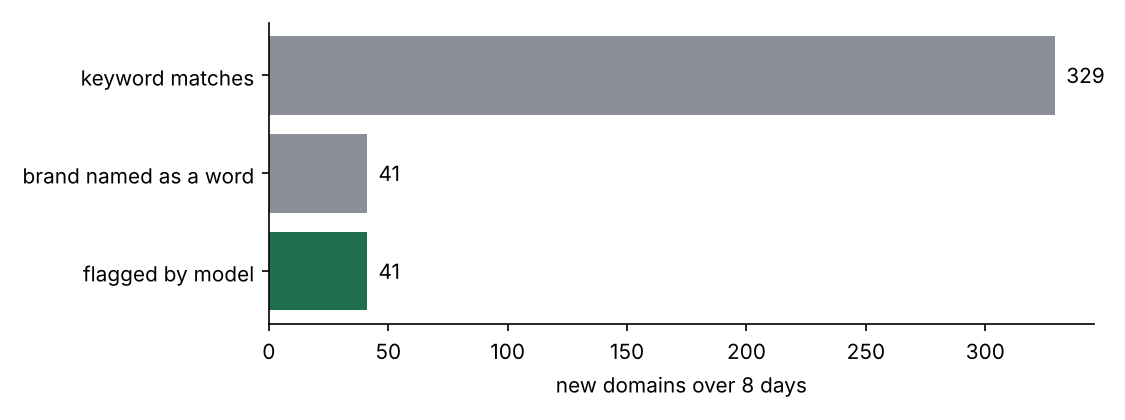
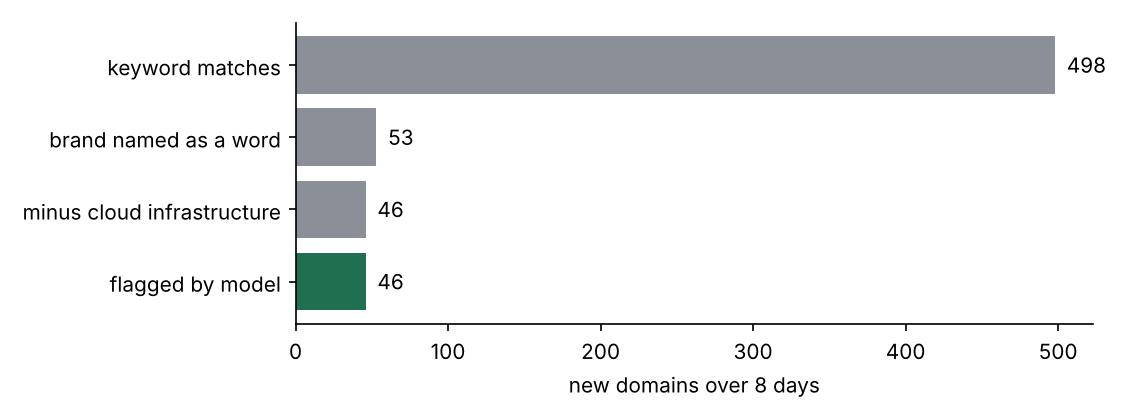
Delivery Scam Watch: suppress cloud-infrastructure names, honest model note, refreshed numbers
- stream funnel gains a cloud-infrastructure step (AWS internal and Snowflake host names from CT logs)
- report records the model threshold and that the rule, not the model, does the cutting
- review file covers the 12 names flagged in the latest run
- dashboard and README refreshed: 498 keyword names -> 46 in the queue, 35 likely scams, none blocklisted

Claude-Session: https://claude.ai/code/session_01QuzrZR1wy5UsD1Csxi9u8s

diff --git a/dashboard/index.html b/dashboard/index.html
@@ -163,7 +163,8 @@ footer { color: var(--muted); font-size: 13px; border-top: 1px solid var(--line)
     <ul class="flat">
       <li><b>In the lab:</b> PR-AUC <span id="lab"></span> with folds grouped by registered domain. This is optimistic: the legitimate examples are popular websites, which are easy to tell from scams.</li>
       <li><b>On a brand it never saw:</b> trained on three brands and tested on the fourth, PR-AUC ranges from <span id="lobo"></span>. UPS is hardest, because "ups" also appears in many innocent names.</li>
-      <li><b>On the live stream:</b> a name-only review of everything flagged found <span id="rev"></span>. On live data the brand-as-a-word rule does most of the work: there are still too few legitimate domains that mention a brand to teach the model the hard cases.</li>
+      <li><b>On the live stream:</b> a name-only review of everything flagged found <span id="rev"></span>. Honest reading: the model's cut-off, set for 95% precision on lab data, keeps every name the rule passes, so the rule and a cloud-infrastructure filter do the cutting and the model score only orders the queue. Lab negatives are popular websites, too easy to teach it the hard cases; reviewed stream names are the training data it needs next.</li>
+      <li><b>Noise found and fixed:</b> certificate logs also carry company-internal cloud host names (AWS test hosts, Snowflake endpoints) whose random strings start with "dhl". <span id="infra"></span> such names are now filtered out and counted separately.</li>
     </ul>
   </section>
 
@@ -193,7 +194,7 @@ python -m scamwatch report          # recompute every number on this page</pre>
 </div>
 
 <script>
-const D = {"generated":"2026-11-01T19:25:59+00:00","labelled":{"keyword_scope":{"scam":2230,"legitimate":635},"brand_scope":{"scam":2230,"legitimate":66},"scam_by_brand":{"USPS":1633,"DHL":479,"FedEx":63,"UPS":55}},"stream":{"days_covered":8,"keyword_domains":329,"after_stage1_rule":41,"after_stage2_model":41,"review_counts":{"likely_scam":35,"unsure":4,"legitimate":2},"analyst_hours_per_month":{"review_every_keyword_domain":102.8,"review_after_rule_and_model":12.8,"assumption_minutes_per_review":5},"likely_scams_not_on_any_blocklist":35},"rows":[{"d":"imports-dhl[.]com","b":"DHL","r":"likely_scam","t":"2026-10-30","s":1.0},{"d":"ba56z-nokku-tmfdhl[.]cyou","b":"DHL","r":"unsure","t":"2026-10-28","s":1.0},{"d":"fedex-vipdsf[.]shop","b":"FedEx","r":"likely_scam","t":"2026-10-28","s":1.0},{"d":"dhl-tracking[.]live","b":"DHL","r":"likely_scam","t":"2026-10-26","s":1.0},{"d":"dhlentrega[.]eu[.]cc","b":"DHL","r":"likely_scam","t":"2026-10-26","s":1.0},{"d":"dhlabelprint[.]com","b":"DHL","r":"unsure","t":"2026-10-30","s":1.0},{"d":"fedex-vipbvrfb[.]shop","b":"FedEx","r":"likely_scam","t":"2026-10-29","s":0.999},{"d":"fedex-vipvujg[.]shop","b":"FedEx","r":"likely_scam","t":"2026-10-26","s":0.999},{"d":"dhl-logisticservices[.]live","b":"DHL","r":"likely_scam","t":"2026-10-26","s":0.999},{"d":"fedex-vipmvbf[.]shop","b":"FedEx","r":"likely_scam","t":"2026-10-26","s":0.999},{"d":"dhleregamx[.]top","b":"DHL","r":"likely_scam","t":"2026-10-25","s":0.999},{"d":"fedex-vipbtb[.]shop","b":"FedEx","r":"likely_scam","t":"2026-10-28","s":0.998},{"d":"dhlpyljh[.]eu[.]cc","b":"DHL","r":"likely_scam","t":"2026-10-30","s":0.998},{"d":"dhlyclz[.]cc","b":"DHL","r":"likely_scam","t":"2026-10-31","s":0.996},{"d":"dhlaolunsideqizi2[.]baby","b":"DHL","r":"unsure","t":"2026-10-28","s":0.996},{"d":"nabt-jadhl[.]com","b":"DHL","r":"unsure","t":"2026-10-31","s":0.993},{"d":"0dhl[.]rest","b":"DHL","r":"likely_scam","t":"2026-10-28","s":0.988},{"d":"dhlzjw661[.]cfd","b":"DHL","r":"likely_scam","t":"2026-10-30","s":0.981},{"d":"fedexrb[.]com","b":"FedEx","r":"likely_scam","t":"2026-10-25","s":0.979},{"d":"fedexrz[.]com","b":"FedEx","r":"likely_scam","t":"2026-10-25","s":0.979},{"d":"thecountypop-ups[.]shop","b":"UPS","r":"legitimate","t":"2026-10-25","s":0.976},{"d":"dhllycl[.]cc","b":"DHL","r":"likely_scam","t":"2026-10-31","s":0.975},{"d":"dhlycly[.]cc","b":"DHL","r":"likely_scam","t":"2026-10-31","s":0.975},{"d":"eservice-dhl[.]com","b":"DHL","r":"likely_scam","t":"2026-10-26","s":0.974},{"d":"fedexi[.]eu[.]cc","b":"FedEx","r":"likely_scam","t":"2026-10-25","s":0.952},{"d":"dhltotog[.]com","b":"DHL","r":"likely_scam","t":"2026-10-31","s":0.95},{"d":"fedexqwq[.]com","b":"FedEx","r":"likely_scam","t":"2026-10-26","s":0.95},{"d":"fedexkfj[.]com","b":"FedEx","r":"likely_scam","t":"2026-10-31","s":0.95},{"d":"pcldhl[.]cc","b":"DHL","r":"likely_scam","t":"2026-10-25","s":0.926},{"d":"kcldhl[.]cc","b":"DHL","r":"likely_scam","t":"2026-10-25","s":0.926},{"d":"wcldhl[.]cc","b":"DHL","r":"likely_scam","t":"2026-10-25","s":0.926},{"d":"dhlsgamx[.]help","b":"DHL","r":"likely_scam","t":"2026-10-31","s":0.923},{"d":"dhlmx[.]lat","b":"DHL","r":"likely_scam","t":"2026-10-25","s":0.914},{"d":"neoncactusps[.]com","b":"USPS","r":"legitimate","t":"2026-10-31","s":0.896},{"d":"fedexabw[.]com","b":"FedEx","r":"likely_scam","t":"2026-10-29","s":0.86},{"d":"fedextqy[.]com","b":"FedEx","r":"likely_scam","t":"2026-10-31","s":0.807},{"d":"fedexwcp[.]com","b":"FedEx","r":"likely_scam","t":"2026-10-29","s":0.807},{"d":"fedexhlp[.]com","b":"FedEx","r":"likely_scam","t":"2026-10-25","s":0.807},{"d":"fedexhyp[.]com","b":"FedEx","r":"likely_scam","t":"2026-10-25","s":0.807},{"d":"fedexqwm[.]com","b":"FedEx","r":"likely_scam","t":"2026-10-25","s":0.807},{"d":"dhlyico[.]cc","b":"DHL","r":"likely_scam","t":"2026-10-25","s":0.693}],"patterns":{"brand_numbers":{"real_share":0.018,"generator_a_share":0.114},"brand_service":{"real_share":0.022,"generator_a_share":0.296},"brand_subdomain":{"real_share":0.602,"generator_a_share":0.156},"hosting_platform (not in A)":{"real_share":0.059,"generator_a_share":0.0},"lookalike_chars":{"real_share":0.0,"generator_a_share":0.092},"misspelled_brand":{"real_share":0.0,"generator_a_share":0.15},"other (brand only, or not in A)":{"real_share":0.245,"generator_a_share":0.0},"random_with_brand_subdomain":{"real_share":0.047,"generator_a_share":0.051},"service_brand":{"real_share":0.007,"generator_a_share":0.143}},"endings":{"real_top_endings":{"top":0.43,"com":0.136,"xyz":0.12,"cc":0.086,"xin":0.026,"vip":0.02,"dev":0.019,"app":0.016,"shop":0.014,"net":0.01},"share_of_real_scams_with_endings_A_never_uses":0.202},"aucA":0.911,"aucB":0.454,"curve":[{"n":25,"real_only":0.0,"real+A":0.867,"real+B":0.53},{"n":50,"real_only":0.825,"real+A":0.894,"real+B":0.795},{"n":100,"real_only":0.934,"real+A":0.921,"real+B":0.985},{"n":200,"real_only":1.0,"real+A":0.935,"real+B":0.993},{"n":400,"real_only":1.0,"real+A":0.953,"real+B":0.999},{"n":2119,"real_only":1.0,"real+A":0.984,"real+B":1.0}],"detector":{"lab":{"pr_auc":0.997,"recall_at_95_precision":1.0},"lobo":{"DHL":{"n":511,"pr_auc":0.98},"FedEx":{"n":66,"pr_auc":0.998},"UPS":{"n":77,"pr_auc":0.867},"USPS":{"n":1642,"pr_auc":1.0}}},"regs":{"blocklisted_registered_domains":1758,"looked_up":187,"still_registered":38,"already_gone_not_found":149,"age_days_when_seen_listed":{"n":38,"median":171.1,"share_under_7_days":0.053,"share_under_30_days":0.079},"top_registrars_blocklisted":{"Dynadot Inc":8,"Gname.com Pte. Ltd.":4,"NameSilo, LLC":3,"Amazon Registrar, Inc.":2,"NameSilo,LLC":2},"top_registrars_stream":{"Dominet (HK) Limited":18,"GNAME.COM PTE. LTD.":3,"Spaceship, Inc.":3,"Dynadot Inc":2,"PDR Ltd. d/b/a PublicDomainRegistry.com":2}},"sources":{"ctlog":{"runs":84,"seen":16840,"stored":15},"openphish":{"runs":3,"seen":33,"stored":11},"phishingarmy":{"runs":3,"seen":240,"stored":120},"phishingdb":{"runs":3,"seen":8196,"stored":2732},"rdap":{"runs":4,"seen":232,"stored":0},"tranco":{"runs":1,"seen":646,"stored":646},"whoisds":{"runs":2,"seen":742,"stored":314}},"bExamples":["zjqdb[.]vusps[.]xyz","usps[.]com-uknmfy[.]icu","skup85-dhl[.]zbcwb[.]io","03obw[.]susps[.]xyz","dhlrrxpho[.]click"]};
+const D = {"generated": "2026-11-01T21:14:20+00:00", "labelled": {"keyword_scope": {"scam": 2230, "legitimate": 635}, "brand_scope": {"scam": 2230, "legitimate": 66}, "scam_by_brand": {"USPS": 1633, "DHL": 479, "FedEx": 63, "UPS": 55}}, "stream": {"days_covered": 8, "keyword_domains": 498, "after_stage1_rule": 53, "infrastructure_suppressed": 7, "after_infrastructure_filter": 46, "after_stage2_model": 46, "model_threshold": 0.0002, "review_counts": {"likely_scam": 35, "unsure": 8, "legitimate": 3}, "analyst_hours_per_month": {"review_every_keyword_domain": 155.6, "review_after_rule_and_model": 14.4, "assumption_minutes_per_review": 5}, "likely_scams_not_on_any_blocklist": 35}, "rows": [{"d": "imports-dhl[.]com", "b": "DHL", "r": "likely_scam", "t": "2026-10-30", "s": 1.0}, {"d": "dhlabelprint[.]com", "b": "DHL", "r": "unsure", "t": "2026-10-30", "s": 1.0}, {"d": "dhl-tracking[.]live", "b": "DHL", "r": "likely_scam", "t": "2026-10-26", "s": 1.0}, {"d": "dhlentrega[.]eu[.]cc", "b": "DHL", "r": "likely_scam", "t": "2026-10-26", "s": 1.0}, {"d": "fedex-vipdsf[.]shop", "b": "FedEx", "r": "likely_scam", "t": "2026-10-28", "s": 1.0}, {"d": "ba56z-nokku-tmfdhl[.]cyou", "b": "DHL", "r": "unsure", "t": "2026-10-28", "s": 1.0}, {"d": "fedex[.]santechservices[.]com", "b": "FedEx", "r": "unsure", "t": "2026-11-01", "s": 1.0}, {"d": "urwmjiwdhl[.]ctn[.]gts[.]multisan[.]pr-mec2[.]ap[.]gtr[.]certsbridge[.]com", "b": "DHL", "r": "legitimate", "t": "2026-11-01", "s": 1.0}, {"d": "www[.]uspss[.]org", "b": "USPS", "r": "unsure", "t": "2026-11-01", "s": 1.0}, {"d": "dhl-logisticservices[.]live", "b": "DHL", "r": "likely_scam", "t": "2026-10-26", "s": 0.999}, {"d": "fedex-vipbvrfb[.]shop", "b": "FedEx", "r": "likely_scam", "t": "2026-10-29", "s": 0.999}, {"d": "fedex-vipvujg[.]shop", "b": "FedEx", "r": "likely_scam", "t": "2026-10-26", "s": 0.999}, {"d": "fedex-vipmvbf[.]shop", "b": "FedEx", "r": "likely_scam", "t": "2026-10-26", "s": 0.999}, {"d": "dhleregamx[.]top", "b": "DHL", "r": "likely_scam", "t": "2026-10-25", "s": 0.999}, {"d": "dhlpyljh[.]eu[.]cc", "b": "DHL", "r": "likely_scam", "t": "2026-10-30", "s": 0.998}, {"d": "fedex-vipbtb[.]shop", "b": "FedEx", "r": "likely_scam", "t": "2026-10-28", "s": 0.998}, {"d": "dhlaolunsideqizi2[.]baby", "b": "DHL", "r": "unsure", "t": "2026-10-28", "s": 0.996}, {"d": "dhlyclz[.]cc", "b": "DHL", "r": "likely_scam", "t": "2026-10-31", "s": 0.996}, {"d": "nabt-jadhl[.]com", "b": "DHL", "r": "unsure", "t": "2026-10-31", "s": 0.993}, {"d": "0dhl[.]rest", "b": "DHL", "r": "likely_scam", "t": "2026-10-28", "s": 0.988}, {"d": "dhlzjw661[.]cfd", "b": "DHL", "r": "likely_scam", "t": "2026-10-30", "s": 0.981}, {"d": "fedexrz[.]com", "b": "FedEx", "r": "likely_scam", "t": "2026-10-25", "s": 0.979}, {"d": "fedexrb[.]com", "b": "FedEx", "r": "likely_scam", "t": "2026-10-25", "s": 0.979}, {"d": "thecountypop-ups[.]shop", "b": "UPS", "r": "legitimate", "t": "2026-10-25", "s": 0.976}, {"d": "dhlycly[.]cc", "b": "DHL", "r": "likely_scam", "t": "2026-10-31", "s": 0.975}, {"d": "dhllycl[.]cc", "b": "DHL", "r": "likely_scam", "t": "2026-10-31", "s": 0.975}, {"d": "eservice-dhl[.]com", "b": "DHL", "r": "likely_scam", "t": "2026-10-26", "s": 0.974}, {"d": "fedexi[.]eu[.]cc", "b": "FedEx", "r": "likely_scam", "t": "2026-10-25", "s": 0.952}, {"d": "dhltotog[.]com", "b": "DHL", "r": "likely_scam", "t": "2026-10-31", "s": 0.95}, {"d": "fedexkfj[.]com", "b": "FedEx", "r": "likely_scam", "t": "2026-10-31", "s": 0.95}, {"d": "fedexpcf[.]org", "b": "FedEx", "r": "unsure", "t": "2026-11-01", "s": 0.95}, {"d": "fedexqwq[.]com", "b": "FedEx", "r": "likely_scam", "t": "2026-10-26", "s": 0.95}, {"d": "kcldhl[.]cc", "b": "DHL", "r": "likely_scam", "t": "2026-10-25", "s": 0.926}, {"d": "pcldhl[.]cc", "b": "DHL", "r": "likely_scam", "t": "2026-10-25", "s": 0.926}, {"d": "wcldhl[.]cc", "b": "DHL", "r": "likely_scam", "t": "2026-10-25", "s": 0.926}, {"d": "dhlsgamx[.]help", "b": "DHL", "r": "likely_scam", "t": "2026-10-31", "s": 0.923}, {"d": "dhlmx[.]lat", "b": "DHL", "r": "likely_scam", "t": "2026-10-25", "s": 0.914}, {"d": "neoncactusps[.]com", "b": "USPS", "r": "legitimate", "t": "2026-10-31", "s": 0.896}, {"d": "fedexabw[.]com", "b": "FedEx", "r": "likely_scam", "t": "2026-10-29", "s": 0.86}, {"d": "fedextqy[.]com", "b": "FedEx", "r": "likely_scam", "t": "2026-10-31", "s": 0.807}, {"d": "fedexhlp[.]com", "b": "FedEx", "r": "likely_scam", "t": "2026-10-25", "s": 0.807}, {"d": "fedexwcp[.]com", "b": "FedEx", "r": "likely_scam", "t": "2026-10-29", "s": 0.807}, {"d": "fedexqwm[.]com", "b": "FedEx", "r": "likely_scam", "t": "2026-10-25", "s": 0.807}, {"d": "fedexhyp[.]com", "b": "FedEx", "r": "likely_scam", "t": "2026-10-25", "s": 0.807}, {"d": "dhlyico[.]cc", "b": "DHL", "r": "likely_scam", "t": "2026-10-25", "s": 0.693}, {"d": "uspss[.]org", "b": "USPS", "r": "unsure", "t": "2026-11-01", "s": 0.05}], "patterns": {"brand_numbers": {"real_share": 0.018, "generator_a_share": 0.114}, "brand_service": {"real_share": 0.022, "generator_a_share": 0.296}, "brand_subdomain": {"real_share": 0.602, "generator_a_share": 0.156}, "hosting_platform (not in A)": {"real_share": 0.059, "generator_a_share": 0.0}, "lookalike_chars": {"real_share": 0.0, "generator_a_share": 0.092}, "misspelled_brand": {"real_share": 0.0, "generator_a_share": 0.15}, "other (brand only, or not in A)": {"real_share": 0.245, "generator_a_share": 0.0}, "random_with_brand_subdomain": {"real_share": 0.047, "generator_a_share": 0.051}, "service_brand": {"real_share": 0.007, "generator_a_share": 0.143}}, "endings": {"real_top_endings": {"top": 0.43, "com": 0.136, "xyz": 0.12, "cc": 0.086, "xin": 0.026, "vip": 0.02, "dev": 0.019, "app": 0.016, "shop": 0.014, "net": 0.01}, "share_of_real_scams_with_endings_A_never_uses": 0.202}, "aucA": 0.911, "aucB": 0.454, "curve": [{"n": 25, "real_only": 0.0, "real+A": 0.867, "real+B": 0.53}, {"n": 50, "real_only": 0.825, "real+A": 0.894, "real+B": 0.795}, {"n": 100, "real_only": 0.934, "real+A": 0.921, "real+B": 0.985}, {"n": 200, "real_only": 1.0, "real+A": 0.935, "real+B": 0.993}, {"n": 400, "real_only": 1.0, "real+A": 0.953, "real+B": 0.999}, {"n": 2119, "real_only": 1.0, "real+A": 0.984, "real+B": 1.0}], "detector": {"lab": {"pr_auc": 0.997, "recall_at_95_precision": 1.0}, "lobo": {"DHL": {"n": 511, "pr_auc": 0.98}, "FedEx": {"n": 66, "pr_auc": 0.998}, "UPS": {"n": 77, "pr_auc": 0.867}, "USPS": {"n": 1642, "pr_auc": 1.0}}}, "regs": {"blocklisted_registered_domains": 1758, "looked_up": 296, "still_registered": 38, "already_gone_not_found": 258, "age_days_when_seen_listed": {"n": 38, "median": 171.1, "share_under_7_days": 0.053, "share_under_30_days": 0.079}, "top_registrars_blocklisted": {"Dynadot Inc": 8, "Gname.com Pte. Ltd.": 4, "NameSilo, LLC": 3, "Amazon Registrar, Inc.": 2, "NameSilo,LLC": 2}, "top_registrars_stream": {"Dominet (HK) Limited": 18, "GNAME.COM PTE. LTD.": 3, "Spaceship, Inc.": 3, "MarkMonitor Inc.": 3, "Name.com, Inc.": 2}}, "sources": {"ctlog": {"runs": 136, "seen": 218995, "stored": 185}, "openphish": {"runs": 6, "seen": 66, "stored": 11}, "phishingarmy": {"runs": 6, "seen": 598, "stored": 120}, "phishingdb": {"runs": 6, "seen": 16392, "stored": 2732}, "rdap": {"runs": 11, "seen": 356, "stored": 424}, "tranco": {"runs": 1, "seen": 646, "stored": 646}, "whoisds": {"runs": 2, "seen": 742, "stored": 314}}, "bExamples": ["zjqdb[.]vusps[.]xyz", "usps[.]com-uknmfy[.]icu", "skup85-dhl[.]zbcwb[.]io", "03obw[.]susps[.]xyz", "dhlrrxpho[.]click"]};
 const pct = (x, d = 0) => (x * 100).toFixed(d) + "%";
 const $ = id => document.getElementById(id);
 
@@ -217,7 +218,8 @@ $("lab").textContent = D.detector.lab.pr_auc.toFixed(3);
 const lobo = Object.entries(D.detector.lobo).map(([b, v]) => [b, v.pr_auc]).sort((a, b) => a[1] - b[1]);
 $("lobo").textContent = `${lobo[0][1].toFixed(2)} (${lobo[0][0]}) to ${lobo[lobo.length - 1][1].toFixed(2)} (${lobo[lobo.length - 1][0]})`;
 const rc = s.review_counts;
-$("rev").textContent = `${rc.likely_scam || 0} likely scams, ${rc.unsure || 0} unsure and ${rc.legitimate || 0} innocent names among ${s.after_stage2_model} flagged (${pct((rc.likely_scam || 0) / s.after_stage2_model)} precision by review), with no likely scam missed`;
+$("rev").textContent = `${rc.likely_scam || 0} likely scams, ${rc.unsure || 0} unsure and ${rc.legitimate || 0} innocent names among ${s.after_stage2_model} in the queue (${pct((rc.likely_scam || 0) / s.after_stage2_model)} likely scams)`;
+$("infra").textContent = s.infrastructure_suppressed;
 const e = D.endings;
 $("endings").textContent = `${pct(e.share_of_real_scams_with_endings_A_never_uses)} of real scam domains use endings our assumptions never listed; .top alone is ${pct(e.real_top_endings.top)}.`;
 const regs = Object.entries(D.regs.top_registrars_stream);

diff --git a/scamwatch/analysis/report.py b/scamwatch/analysis/report.py
@@ -21,7 +21,7 @@ from ..config import PROJECT_ROOT  # noqa: E402
 from ..defang import defang  # noqa: E402
 from . import dataset  # noqa: E402
 from . import experiment as ex  # noqa: E402
-from .features import FEATURES, frame  # noqa: E402
+from .features import FEATURES, frame, is_infrastructure  # noqa: E402
 from .model import MODEL_FEATURES, evaluate, make_model, out_of_fold, recall_at_precision  # noqa: E402
 
 OUT = PROJECT_ROOT / "outputs"
@@ -57,8 +57,11 @@ def collection_stats(conn) -> dict:
 
 
 def stream_triage(df: pd.DataFrame, scam_model, threshold: float) -> dict:
+    """Funnel for new domains: keyword match -> brand-word rule -> infrastructure suppression -> model."""
     stream = df[df.set == "stream"].copy()
-    stage1 = stream[stream.brand.notna()].copy()
+    branded = stream[stream.brand.notna()].copy()
+    infra = branded.fqdn.map(is_infrastructure).astype(bool) if len(branded) else pd.Series(dtype=bool)
+    stage1 = branded[~infra].copy()
     stage1["score"] = scam_model.predict_proba(frame(stage1.fqdn.tolist())[FEATURES])[:, 1] if len(stage1) else []
     stage1["flagged"] = stage1.score >= threshold
     review = {r["fqdn"]: r for r in csv.DictReader(REVIEW.open())} if REVIEW.exists() else {}
@@ -67,12 +70,20 @@ def stream_triage(df: pd.DataFrame, scam_model, threshold: float) -> dict:
     flagged = stage1[stage1.flagged]
     days = max(1, (stream.first_new_signal.max() - stream.first_new_signal.min()).days + 1)
     per_month = 30 / days
+    reviewed = stage1[stage1.review != "not_reviewed"]
     return {
         "days_covered": int(days),
         "keyword_domains": len(stream),
-        "after_stage1_rule": len(stage1),
+        "after_stage1_rule": len(branded),
+        "infrastructure_suppressed": int(infra.sum()),
+        "infrastructure_examples": [defang(d) for d in branded[infra].fqdn.head(5)],
+        "after_infrastructure_filter": len(stage1),
         "after_stage2_model": int(stage1.flagged.sum()),
+        "model_threshold": round(float(threshold), 4),
+        "model_note": "threshold set for 95% precision on lab data; on the stream it keeps every name the rule passes, "
+        "so the rule does the cutting and the score only orders the queue",
         "review_counts": stage1.review.value_counts().to_dict(),
+        "likely_scam_share_of_reviewed": round(float(likely.sum() / max(1, len(reviewed))), 3),
         "flagged_that_review_calls_likely_scam": int((stage1.flagged & likely).sum()),
         "likely_scams_missed_by_model": int((~stage1.flagged & likely).sum()),
         "flagged_that_review_calls_legitimate": int((stage1.flagged & (stage1.review == "legitimate")).sum()),
@@ -250,10 +261,11 @@ def charts(res: dict) -> None:
     steps = [
         ("keyword matches", s["keyword_domains"]),
         ("brand named as a word", s["after_stage1_rule"]),
+        ("minus cloud infrastructure", s["after_infrastructure_filter"]),
         ("flagged by model", s["after_stage2_model"]),
     ]
     fig, ax = plt.subplots(figsize=(7.5, 2.8))
-    ax.barh([n for n, _ in steps][::-1], [v for _, v in steps][::-1], color=[accent, grey, grey])
+    ax.barh([n for n, _ in steps][::-1], [v for _, v in steps][::-1], color=[accent] + [grey] * (len(steps) - 1))
     for i, (_, v) in enumerate(steps[::-1]):
         ax.text(v, i, f"  {v}", va="center", fontsize=10)
     ax.set_xlabel(f"new domains over {s['days_covered']} days")

diff --git a/scamwatch/analysis/features.py b/scamwatch/analysis/features.py
@@ -80,6 +80,18 @@ HOSTING = [
     "ipfs.io",
     "dweb.link",
 ]
+# Company-internal cloud infrastructure. Certificate logs are full of machine-generated host names under
+# these (AWS internal test hosts, Snowflake account endpoints); nobody can serve a public phishing page
+# there, and their random labels sometimes start or end with 'dhl' or 'usps'. Found in the live stream
+# on 2026-11-01 (8 of 12 new flags), so this list is a suppression step, reported separately.
+INFRASTRUCTURE = [
+    "aws.dev",
+    "a2z.eu",
+    "a2z.com",
+    "snowflake.app",
+    "snowflake.com",
+    "snowflakecomputing.com",
+]
 COMMON_TLDS = {
     "com",
     "org",
@@ -169,6 +181,11 @@ def brand_token(fqdn: str) -> str | None:
             if any(part.startswith("ups" + w) or part.endswith(w + "ups") for w in DELIVERY_WORDS):
                 return "UPS"
     return None
+
+
+def is_infrastructure(fqdn: str) -> bool:
+    fqdn = fqdn.lower().rstrip(".")
+    return any(fqdn == h or fqdn.endswith("." + h) for h in INFRASTRUCTURE)
 
 
 def features(fqdn: str) -> dict:

diff --git a/tests/test_analysis.py b/tests/test_analysis.py
@@ -77,3 +77,12 @@ def test_rdap_goes_straight_to_the_registry():
     assert rdap_url("example.com", servers) == "https://rdap.verisign.com/com/v1/domain/example.com"
     assert rdap_url("usps-fee.top", servers) == "https://rdap.zdnsgtld.com/top/domain/usps-fee.top"
     assert rdap_url("x.unknownending", servers).startswith("https://rdap.org/")
+
+
+def test_cloud_infrastructure_names_are_suppressed():
+    from scamwatch.analysis.features import is_infrastructure
+
+    assert is_infrastructure("dhlsknqfmltzqpgiapsjzvnjirlp.fis.iad.test.prod.sadbirds.aws.dev")
+    assert is_infrastructure("bnym-dhlprodazus.eastus2.azure.privatelink.snowflake.app")
+    assert not is_infrastructure("dhl-tracking.live")
+    assert not is_infrastructure("fedex-vipbtb.shop")

diff --git a/README.md b/README.md
@@ -13,11 +13,11 @@ snapshot, open it in a browser).
 
 | Question | Answer |
 |---|---|
-| How many brand-keyword new domains a week? | 329 in 8 days from WhoisDS registrations and the CT log sample |
-| How many reach the analyst? | **41** after the brand-word rule and the model (about **103 → 13 analyst hours a month**, at 5 minutes per review) |
-| Are they real? | Name-only review: **35 likely scams**, 4 unsure, 2 legitimate (85% precision). The model missed none of the likely scams |
+| How many brand-keyword new domains? | 498 in 8 days from WhoisDS registrations and the CT log sample |
+| How many reach the analyst? | **46** after the brand-word rule and a cloud-infrastructure filter (about **156 → 14 analyst hours a month**, at 5 minutes per review) |
+| Are they real? | Name-only review: **35 likely scams**, 8 unsure, 3 legitimate (76% likely scams) |
 | Are they already blocked? | **None of the 35** is on any of the blocklists we read |
-| Do blocklists act in time? | Of 187 blocklisted brand domains we looked up, **149 (80%) no longer exist** at the registry, so by listing time the campaign has often moved on |
+| Do blocklists act in time? | Of 296 blocklisted brand domains we looked up, **258 (87%) no longer exist** at the registry, so by listing time the campaign has often moved on |
 | Campaign signals | Series such as `fedex-vip*.shop` and `dhl+letters.cc`; one registrar (Dominet (HK) Limited) handled 18 of the flagged registrations |
 
 ### How good is the detector, honestly?
@@ -29,6 +29,14 @@ snapshot, open it in a browser).
 - **Live stream:** before the brand-word rule was tightened, the model flagged 108 of 198 names,
   most of them innocent ("groups", "syrups", device names like "ups1"). The fix was the rule,
   not the model. Lesson: lab scores did not predict the stream.
+- **What the model does today:** its cut-off, set for 95% precision on lab data, is 0.0002, so
+  it keeps every name the rule passes. The rule and the filter do the cutting; the score only
+  orders the queue. The reviewed stream names (`data/review/`) are the hard negatives it needs.
+- **Noise found on 2026-11-01:** certificate logs carry company-internal cloud host names (AWS test
+  hosts, Snowflake account endpoints) whose random strings start with "dhl". 7 of 12 new flags
+  that day were these. They are now suppressed by suffix (`INFRASTRUCTURE` in
+  `analysis/features.py`) and counted separately in the report. The list was written after seeing
+  them, so it is a fix for known noise, not a measured result.
 
 ### Does synthetic data help when real labels are scarce?
 
@@ -86,7 +94,7 @@ db/migrations/             0001_init.sql, 0002_keyless_sources.sql (never edit a
 data/synthetic/            generator A output (frozen)
 data/review/               name-only review of the flagged stream domains
 dashboard/index.html       static dashboard snapshot
-tests/                     pytest, 66 tests
+tests/                     pytest, 67 tests
 ```
 
 ## Run it
